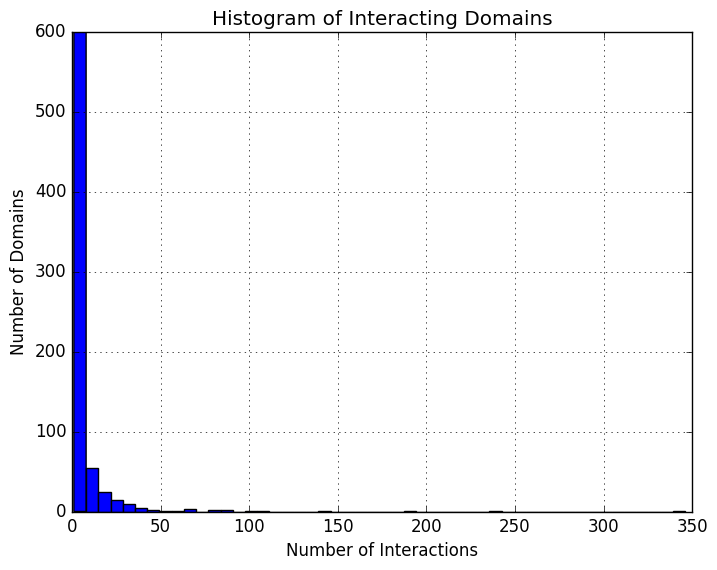
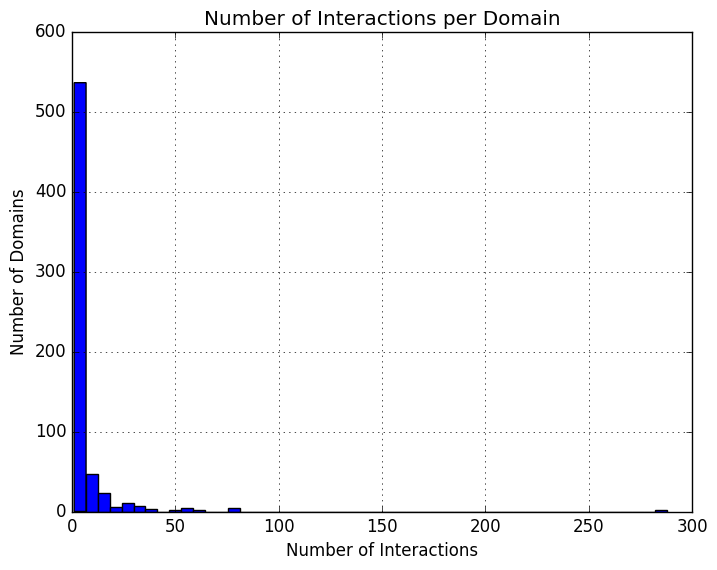
Plotted new histograms reflecting changes in data

diff --git a/InteractionLists/stats/stats.py b/InteractionLists/stats/stats.py
@@ -61,21 +61,21 @@ if(verbose):
 # find relative domain length
 relDomainLen = {}
 for i in range(0, len(proteinA)):
-	key = proteinA[i] + '-' + domainA[i]
-	if(not(key in relDomainLen)):
-		relDomainLen[key] = domainLen[domainA[i]]/proteinLen[proteinA[i]]
+    key = proteinA[i] + '-' + domainA[i]
+    if(not(key in relDomainLen)):
+        relDomainLen[key] = domainLen[key]/proteinLen[proteinA[i]]
+
 for i in range(0, len(proteinB)):
-	key = proteinB[i] + '-' + domainB[i]
-	if(not(key in relDomainLen)):
-		relDomainLen[key] = domainLen[domainB[i]]/proteinLen[proteinB[i]]
+    key = proteinB[i] + '-' + domainB[i]
+    if(not(key in relDomainLen)):
+        relDomainLen[key] = domainLen[key]/proteinLen[proteinB[i]]
 
 print('Number of unique Protein-domain Interactions: ' + str(len(relDomainLen)))
-import pdb; pdb.set_trace();
 
 # plots
 plt.figure(0)
 plt.hist(list(proteins.values()), bins=50)
-plt.title('Histogram of Interacting Proteins')
+plt.title('Number of Interactions per Proteins')
 plt.xlabel('Number of Interactions')
 plt.ylabel('Number of Proteins')
 plt.grid(True)
@@ -84,7 +84,7 @@ if(displayCharts): plt.show();
 
 plt.figure(1)
 plt.hist(list(domains.values()), bins=50)
-plt.title('Histogram of Interacting Domains')
+plt.title('Number of Interactions per Domain')
 plt.xlabel('Number of Interactions')
 plt.ylabel('Number of Domains')
 plt.grid(True)
@@ -92,7 +92,7 @@ plt.savefig('InteractionLists/stats/Domains.png', bbox_inches='tight')
 if(displayCharts): plt.show();
 
 plt.figure(2)
-plt.hist(list(proteinLen.values()), bins=1000)
+plt.hist(list(proteinLen.values()), bins=100)
 plt.title('Protein Length')
 plt.xlabel('Protein Length')
 plt.ylabel('Number of Proteins')
